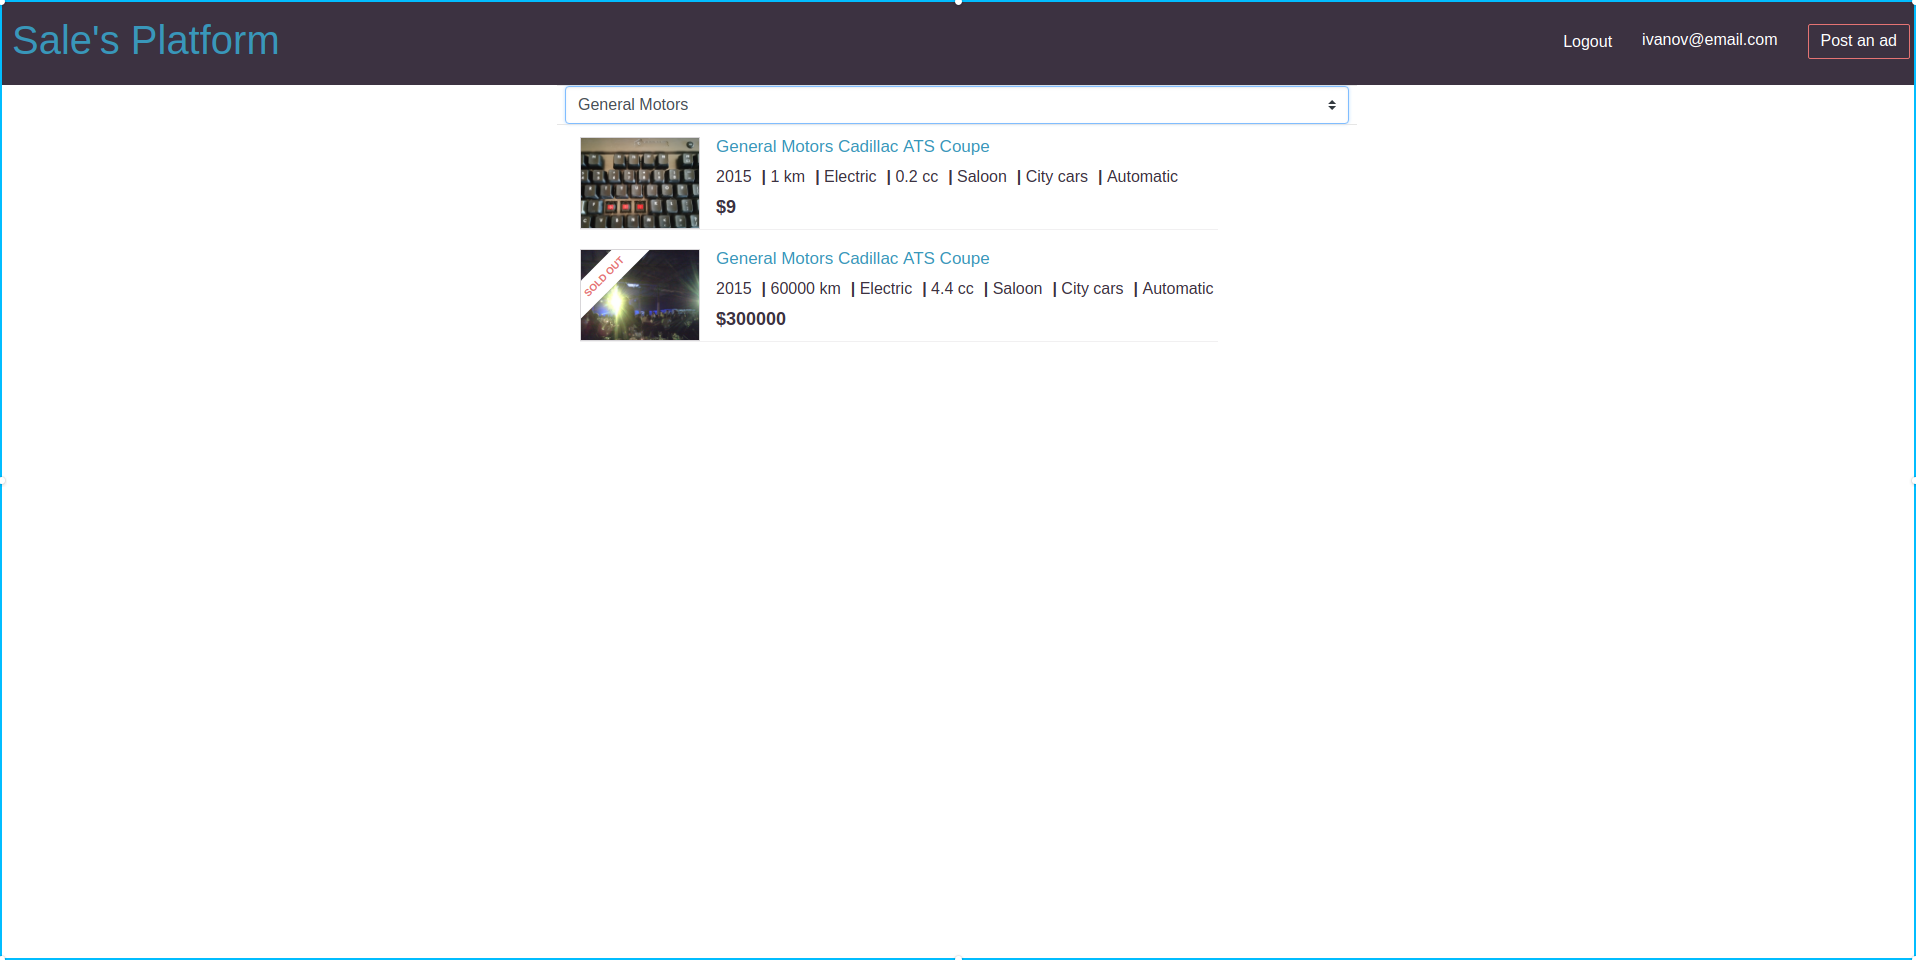
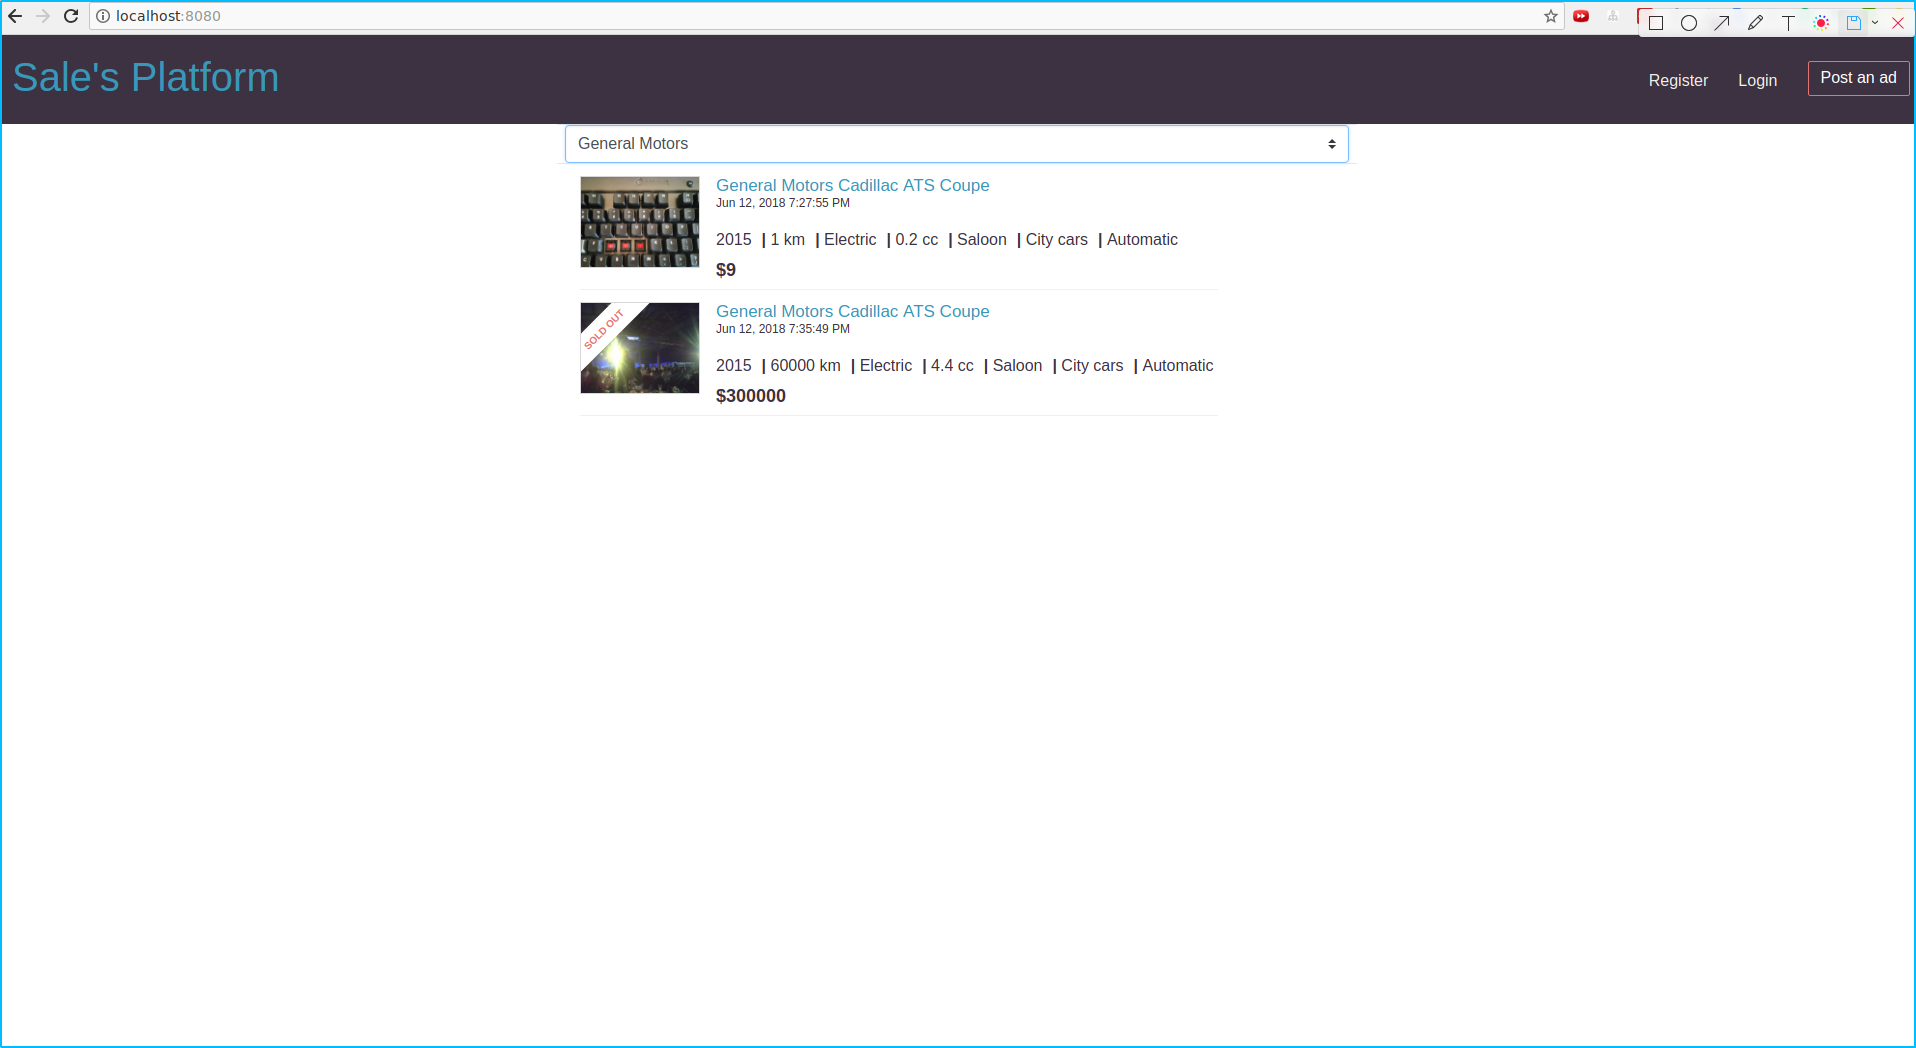
JOB4J-4745 Filter posts on backend

Changed region(s): [[0.0, 0.0, 1.0, 0.4062]]

diff --git a/pre-middle/chapter_010/salesplatform/frontend/src/components/PostList.vue b/pre-middle/chapter_010/salesplatform/frontend/src/components/PostList.vue
@@ -9,7 +9,7 @@
     </b-row>
     <b-row class="main" v-show="posts && posts.length" v-cloak>
       <b-list-group class="post-list">
-        <job4j-post v-for="post in filteredPosts" :key="post.id"
+        <job4j-post v-for="post in posts" :key="post.id"
                     :post="post"></job4j-post>
       </b-list-group>
     </b-row>
@@ -53,37 +53,32 @@ export default {
       })
       .catch(error => console.log(error))
   },
-  computed: {
-    filteredPosts: function () {
-      let posts
-      const visibility = this.visibility.toLowerCase()
-
-      switch (visibility) {
-        case POSTED_TODAY.toLowerCase():
-          posts = this.posts.filter(p => {
-            const pDate = new Date(p.publishDate).toDateString()
-            const today = new Date().toDateString()
-            return pDate === today
-          })
-          break
-        case POSTS_WITH_PICS.toLowerCase():
-          posts = this.posts.filter(p => p.pictures.length !== 0)
-          break
-        case ALL.toLowerCase():
-          posts = this.posts
-          break
-        default:
-          posts = this.posts.filter(p =>
-            visibility === p.car.carModel.manufacture.name.toLowerCase())
-      }
-      console.log(posts)
-      return posts || []
-    }
-  },
   methods: {
     onChange (value) {
       this.visibility = value
       console.log(`visibility: ${this.visibility}`)
+      let urlPart
+      switch (value.toLowerCase()) {
+        case POSTED_TODAY.toLowerCase():
+          urlPart = '/filter?publish_date=today'
+          break
+        case POSTS_WITH_PICS.toLowerCase():
+          urlPart = '/filter?with_pics=yes'
+          break
+        case ALL.toLowerCase():
+          urlPart = '/list'
+          break
+        default:
+          urlPart = `/filter?manufacture=${value}`
+      }
+      axios.get(urlPart)
+        .then(res => {
+          console.log(res)
+          const [...posts] = res.data
+          this.posts = posts
+          console.log(posts)
+        })
+        .catch(error => console.log(error))
     }
   }
 }

diff --git a/pre-middle/chapter_010/salesplatform/frontend/src/components/Post.vue b/pre-middle/chapter_010/salesplatform/frontend/src/components/Post.vue
@@ -18,6 +18,7 @@
             <h2 class="post-title">{{
               post.car.carModel.manufacture.name }} {{
               post.car.carModel.name }}</h2>
+            <sup>{{ post.publishDate }}</sup>
             <p class="post-description">{{ post.content }}</p>
             <ul class="post-attributes">
               <li>
@@ -218,7 +219,7 @@ export default {
   .ribbon-featured .ribbon {
     background-color: #fff;
     color: #e57373;
-    box-shadow: 0 0 2px 0 rgba(0,0,0,.2);
+    box-shadow: 0 0 2px 0 rgba(0, 0, 0, .2);
     text-transform: uppercase;
     display: block;
     text-align: center;

diff --git a/pre-middle/chapter_010/salesplatform/backend/src/main/java/ru/job4j/PostRepository.java b/pre-middle/chapter_010/salesplatform/backend/src/main/java/ru/job4j/PostRepository.java
@@ -19,13 +19,38 @@ import java.util.concurrent.CopyOnWriteArrayList;
 
 public class PostRepository implements AbstractDao {
 
-    public List<Picture> findByPostId(final Long postId) {
+    public List<Picture> findPicsByPostId(final Long postId) {
         Post post = new PostDaoImpl().findOne(postId);
         return fetchTx(session -> {
-            Query query = session.createQuery("from Picture where post=:post");
+            Query query = session.createQuery("FROM Picture WHERE post=:post");
             query.setParameter("post", post);
             return (List<Picture>) Optional.ofNullable(query.list())
                 .orElse(new CopyOnWriteArrayList<>());
+        });
+    }
+
+    public List<Post> findWithPics() {
+        return fetchTx(session ->
+            session.createQuery("SELECT p FROM Post p "
+                + "LEFT JOIN p.pictures pic "
+                + "WHERE pic.id IS NOT NULL").list());
+    }
+
+    public List<Post> findTodaysPosts() {
+        return fetchTx(session ->
+            session.createQuery("FROM Post "
+                + "WHERE publishDate >= CURRENT_DATE").list());
+    }
+
+    public List<Post> findByCarManufacture(final String manufacture) {
+        return fetchTx(session -> {
+            Query query = session.createQuery("SELECT p from Post p "
+                + "join p.car c "
+                + "join c.carModel cm "
+                + "join cm.manufacture m "
+                + "where m.name = :manufacture");
+            query.setParameter("manufacture", manufacture);
+            return query.list();
         });
     }
 
@@ -42,7 +67,7 @@ public class PostRepository implements AbstractDao {
     }
 
     public void editPostAd(final User user, final Post post) throws AuthenticationException {
-        post.setPictures(new PostRepository().findByPostId(post.getId()));
+        post.setPictures(new PostRepository().findPicsByPostId(post.getId()));
         if (!user.getId().equals(post.getUser().getId())) {
             throw new AuthenticationException(
                 String.format("User: %s attempts to edit not his own post.", user.getEmail()));

diff --git a/pre-middle/chapter_010/salesplatform/backend/src/main/java/ru/job4j/DispatchFilter.java b/pre-middle/chapter_010/salesplatform/backend/src/main/java/ru/job4j/DispatchFilter.java
@@ -1,0 +1,40 @@
+package ru.job4j;
+
+import ru.job4j.model.Post;
+
+import java.util.HashMap;
+import java.util.List;
+import java.util.Map;
+import java.util.function.BiFunction;
+
+public class DispatchFilter {
+
+    private final Map<Filter, BiFunction<Filter, String, List<Post>>> dispatch = new HashMap<>();
+
+    public BiFunction<Filter, String, List<Post>> findTodaysPosts() {
+        return (filter, param) -> new PostRepository().findTodaysPosts();
+    }
+
+    public BiFunction<Filter, String, List<Post>> findWithPics() {
+        return (filter, param) -> new PostRepository().findWithPics();
+    }
+
+    public BiFunction<Filter, String, List<Post>> findByCarManufacture() {
+        return (filter, param) -> new PostRepository().findByCarManufacture(param);
+    }
+
+    public DispatchFilter init() {
+        this.load(Filter.PUBLISH_DATE, this.findTodaysPosts());
+        this.load(Filter.WITH_PICS, this.findWithPics());
+        this.load(Filter.MANUFACTURE, this.findByCarManufacture());
+        return this;
+    }
+
+    public void load(Filter type, BiFunction<Filter, String, List<Post>> handle) {
+        this.dispatch.put(type, handle);
+    }
+
+    public List<Post> sent(final Filter filter, final String param) {
+        return this.dispatch.get(filter).apply(filter, param);
+    }
+}

diff --git a/pre-middle/chapter_010/salesplatform/backend/src/main/java/ru/job4j/controller/FilterPostsController.java b/pre-middle/chapter_010/salesplatform/backend/src/main/java/ru/job4j/controller/FilterPostsController.java
@@ -1,0 +1,30 @@
+package ru.job4j.controller;
+
+import com.google.gson.Gson;
+import ru.job4j.DispatchFilter;
+import ru.job4j.Filter;
+import ru.job4j.model.Post;
+
+import javax.servlet.ServletException;
+import javax.servlet.http.HttpServlet;
+import javax.servlet.http.HttpServletRequest;
+import javax.servlet.http.HttpServletResponse;
+import java.io.IOException;
+import java.io.PrintWriter;
+import java.util.ArrayList;
+import java.util.List;
+
+public class FilterPostsController extends HttpServlet {
+
+    @Override
+    protected void doGet(final HttpServletRequest req, final HttpServletResponse resp) throws ServletException, IOException {
+        ArrayList<String> queryParams = new ArrayList<>(req.getParameterMap().keySet());
+        String condition = queryParams.get(0);
+        Filter filter = Filter.filterFromName(condition);
+        List<Post> posts = new DispatchFilter().init().sent(filter, req.getParameter(condition));
+        resp.setContentType("text/json");
+        PrintWriter wr = new PrintWriter(resp.getOutputStream());
+        wr.append(new Gson().toJson(posts));
+        wr.flush();
+    }
+}

diff --git a/pre-middle/chapter_010/salesplatform/backend/src/test/java/ru/job4j/dao/PostDaoImplTest.java b/pre-middle/chapter_010/salesplatform/backend/src/test/java/ru/job4j/dao/PostDaoImplTest.java
@@ -1,6 +1,7 @@
 package ru.job4j.dao;
 
 import org.junit.Test;
+import ru.job4j.PostRepository;
 import ru.job4j.dao.car.CarDaoImpl;
 import ru.job4j.model.Post;
 
@@ -8,8 +9,7 @@ import java.sql.Timestamp;
 import java.util.ArrayList;
 
 import static org.hamcrest.MatcherAssert.assertThat;
-import static org.hamcrest.Matchers.greaterThanOrEqualTo;
-import static org.hamcrest.Matchers.is;
+import static org.hamcrest.Matchers.*;
 
 public class PostDaoImplTest {
 
@@ -22,6 +22,21 @@ public class PostDaoImplTest {
     @Test
     public void findAll() {
         assertThat(new PostDaoImpl().findAll().size(), greaterThanOrEqualTo(1));
+    }
+
+    @Test
+    public void findWithoutPics() {
+        assertThat(new PostRepository().findWithPics().size(), greaterThan(3));
+    }
+
+    @Test
+    public void findTodaysPosts() {
+        assertThat(new PostRepository().findTodaysPosts().size(), equalTo(2));
+    }
+
+    @Test
+    public void findByCarManufacture() {
+        assertThat(new PostRepository().findByCarManufacture("BMW").size(), equalTo(3));
     }
 
     @Test

diff --git a/pre-middle/chapter_010/salesplatform/backend/src/main/java/ru/job4j/Filter.java b/pre-middle/chapter_010/salesplatform/backend/src/main/java/ru/job4j/Filter.java
@@ -1,0 +1,18 @@
+package ru.job4j;
+
+import static java.lang.String.format;
+
+public enum Filter {
+
+    PUBLISH_DATE, WITH_PICS, MANUFACTURE;
+
+    public static Filter filterFromName(final String name) {
+        for (Filter filter : Filter.values()) {
+            if (filter.name().equalsIgnoreCase(name)) {
+                return filter;
+            }
+        }
+        throw new IllegalArgumentException(
+            format("Filter with name: {%s}, not found", name));
+    }
+}

diff --git a/pre-middle/chapter_010/salesplatform/README.md b/pre-middle/chapter_010/salesplatform/README.md
@@ -32,7 +32,7 @@
 ![alt text](backend/ext_src/filterCarManufacture.png)
 
 ## Filter `with pictures` 
-![alt text](backend/ext_src/filterPics.png)
+![alt text](backend/ext_src/filterWithPics.png)
 
 ## Filter `published today`
 ![alt text](backend/ext_src/filterToday.png)
